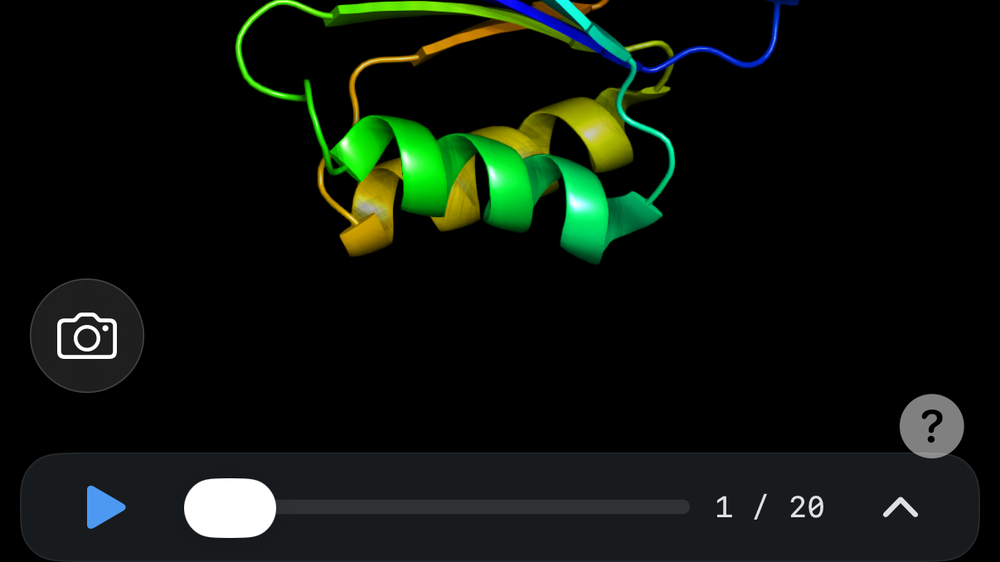
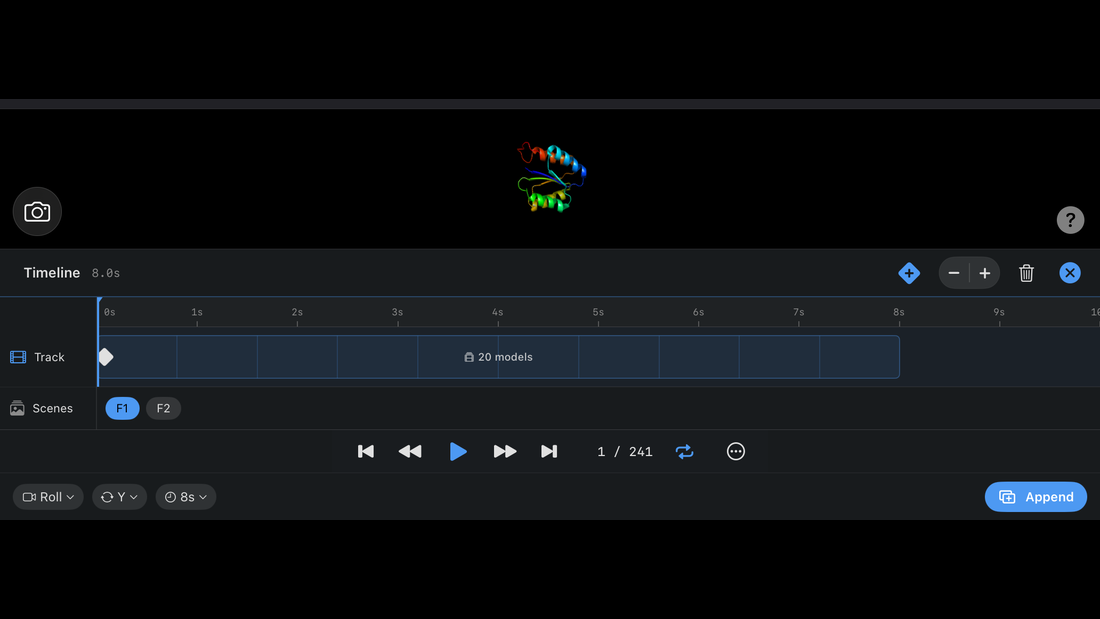
fix(whats-new): real docked-timeline hero + fix wide-hero layout overflow
- Timeline hero now shows the actual docked timeline mode (TimelinePanel:
  ruler, "20 models" clip, keyframe, Scenes, transport, Append), captured after
  merging the timeline-mode feature. Padded to ~16:9 so scaledToFill shows the
  whole editor.
- Fix the modal ballooning past its frame with a wide hero: make hero() a
  flexible gradient BASE with the media as a clipped OVERLAY, so a wide
  image/video fills-and-crops within the box instead of imposing its scaled width
  on the card (which clipped the eyebrow/body text and pushed the close button and
  primary button off-screen). Verified on macOS + iOS for both video and image heroes.

diff --git a/swiftui/PyMOLViewer/Shared/WhatsNewModal.swift b/swiftui/PyMOLViewer/Shared/WhatsNewModal.swift
@@ -74,9 +74,6 @@ struct WhatsNewModal: View {
     private func page(_ p: WhatsNewPage) -> some View {
         VStack(spacing: 0) {
             hero(p)
-                .frame(height: heroHeight)
-                .frame(maxWidth: .infinity)
-                .clipped()
                 .overlay(alignment: .topLeading) {
                     Text("New in RayMol \(versionLabel)")
                         .font(.caption2.weight(.bold))
@@ -109,23 +106,30 @@ struct WhatsNewModal: View {
     // want of media.
     @ViewBuilder
     private func hero(_ p: WhatsNewPage) -> some View {
-        ZStack {
-            LinearGradient(
-                colors: [Color(red: 0.23, green: 0.36, blue: 0.56),
-                         Color(red: 0.06, green: 0.09, blue: 0.14)],
-                startPoint: .topLeading, endPoint: .bottomTrailing)
-
-            if let videoURL = Self.loadedVideoURL(p.videoName) {
-                LoopingVideoView(url: videoURL)
-            } else if let img = Self.loadedImage(p.imageName) {
-                img.resizable().scaledToFill()
-            } else if let symbol = p.systemImage {
-                Image(systemName: symbol)
-                    .font(.system(size: 56, weight: .regular))
-                    .foregroundStyle(.white.opacity(0.92))
-                    .shadow(radius: 8)
+        // The gradient is the flexible BASE: it takes the proposed width (bounded by
+        // the modal frame) and the fixed hero height. The media is an OVERLAY, so a
+        // wide image/video fills-and-crops WITHIN this box and can never impose its
+        // scaled width on the layout (which previously ballooned the whole card past
+        // its frame — clipping text and pushing the ✕ / button off-screen).
+        LinearGradient(
+            colors: [Color(red: 0.23, green: 0.36, blue: 0.56),
+                     Color(red: 0.06, green: 0.09, blue: 0.14)],
+            startPoint: .topLeading, endPoint: .bottomTrailing)
+            .frame(maxWidth: .infinity)
+            .frame(height: heroHeight)
+            .overlay {
+                if let videoURL = Self.loadedVideoURL(p.videoName) {
+                    LoopingVideoView(url: videoURL)
+                } else if let img = Self.loadedImage(p.imageName) {
+                    img.resizable().scaledToFill()
+                } else if let symbol = p.systemImage {
+                    Image(systemName: symbol)
+                        .font(.system(size: 56, weight: .regular))
+                        .foregroundStyle(.white.opacity(0.92))
+                        .shadow(radius: 8)
+                }
             }
-        }
+            .clipped()
     }
 
     private var footer: some View {